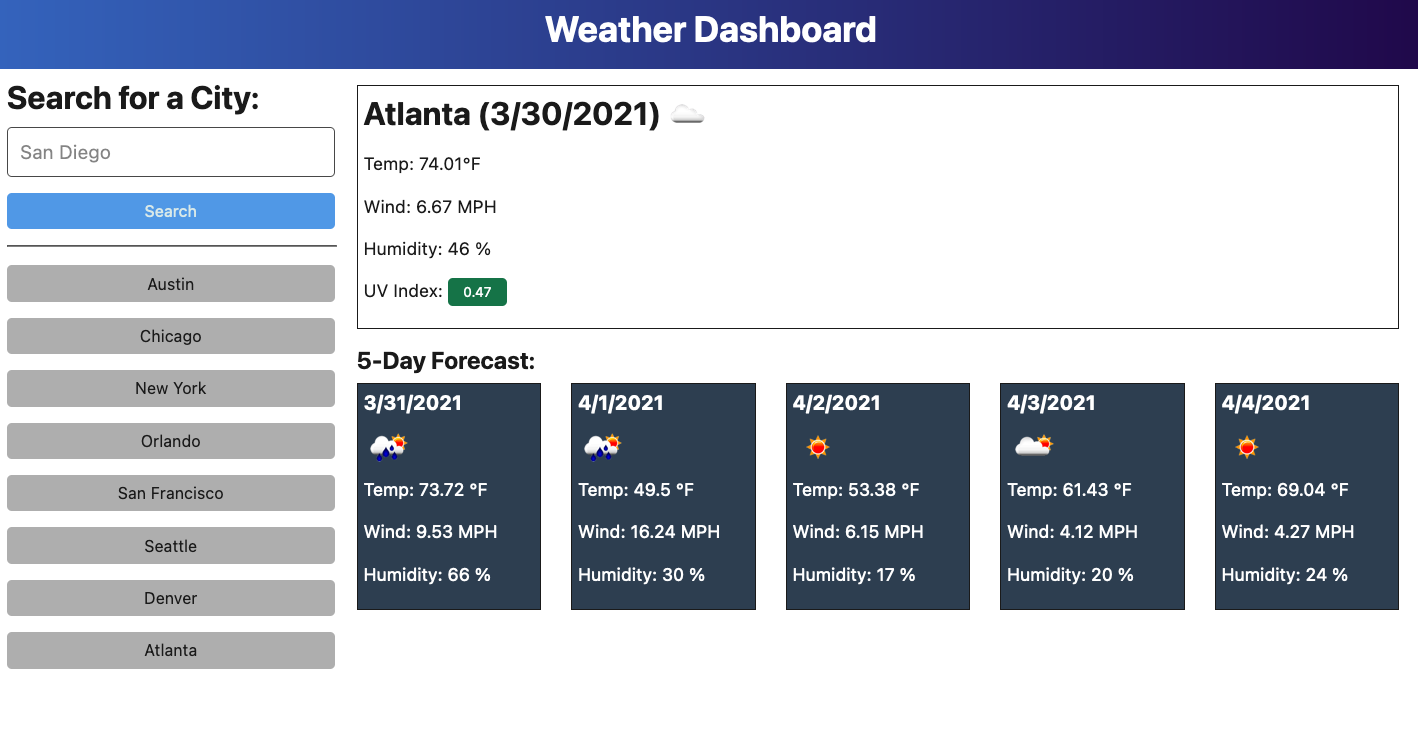
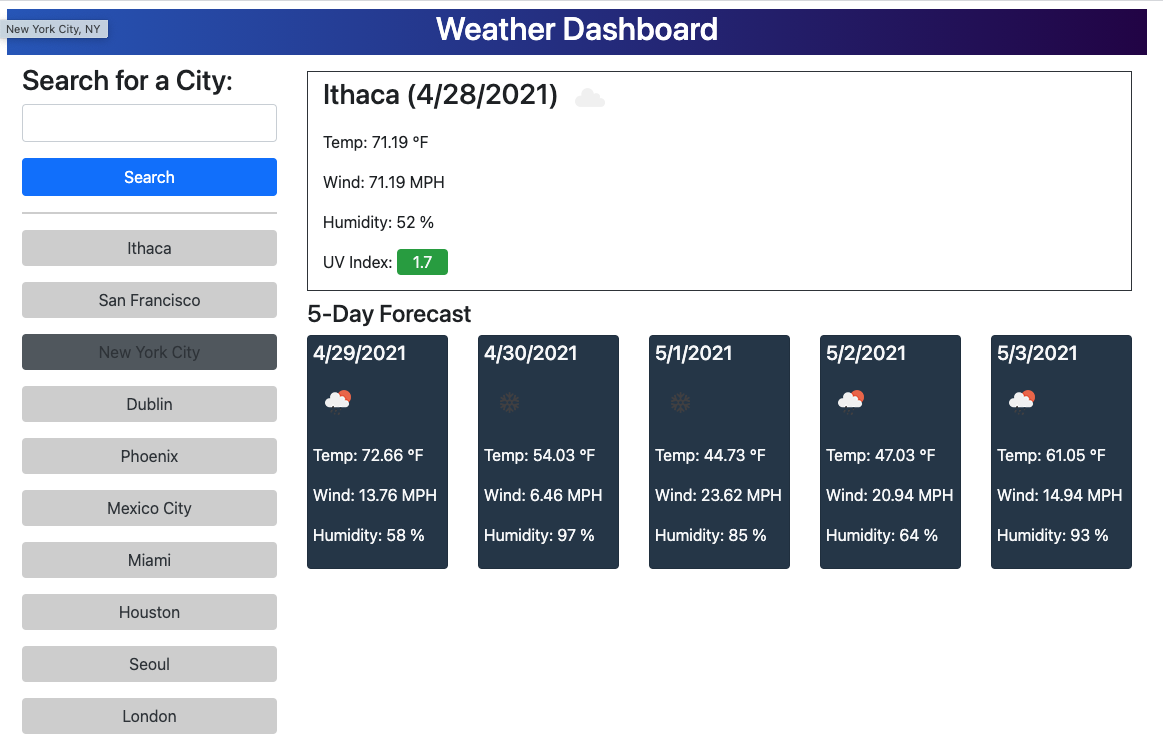
update readme; hide messages pane when weather info is displayed

diff --git a/assets/js/script.js b/assets/js/script.js
@@ -57,7 +57,6 @@ var updateSearchHistory = function(cityData, multipleMatches) {
 
 var weatherCitySearch = function(city) {
   weatherInfoEl.classList.add("hidden");
-  messagesEl.classList.add('hidden');
 
   var endpoint = 'https://api.openweathermap.org/geo/1.0/direct?q=' + city + '&limit=3&appid=' + OWM_KEY;
 
@@ -79,6 +78,7 @@ var weatherCitySearch = function(city) {
 
 var getWeatherForCity = function(cityData) {
   updateSearchHistory(cityData);
+  messagesEl.classList.add('hidden');
 
   var endpoint = 'https://api.openweathermap.org/data/2.5/onecall?lat=' + cityData.lat + '&lon=' + cityData.lon + '&exclude=minutely,hourly&units=imperial&appid=' + OWM_KEY;
 
@@ -127,11 +127,9 @@ var updateWeatherDashboard = function (weather) {
     forecastCardEls[i].innerHTML = cardBodyHtml;
   }
 
-
-  if (weatherInfoEl.classList.contains("hidden")) {
-    weatherInfoEl.classList.remove("hidden");
-  }
-  
+  // hide the messages div and show the weather info
+  messagesEl.classList.add('hidden');
+  weatherInfoEl.classList.remove('hidden');
 };
 
 var displayError = function (error) {

diff --git a/README.md b/README.md
@@ -2,17 +2,14 @@
 An app to fetch and display weather information from OpenWeather for multiple cities to aid travelers in trip planning.
 
 ## Features
-GIVEN a weather dashboard with form inputs
-- WHEN I search for a city<br>
-THEN I am presented with current and future conditions for that city and that city is added to the search history
-- WHEN I view current weather conditions for that city<br>
-THEN I am presented with the city name, the date, an icon representation of weather conditions, the temperature, the humidity, the wind speed, and the UV index
-- WHEN I view the UV index<br>
-THEN I am presented with a color that indicates whether the conditions are favorable, moderate, or severe
-- WHEN I view future weather conditions for that city<br>
-THEN I am presented with a 5-day forecast that displays the date, an icon representation of weather conditions, the temperature, the wind speed, and the humidity
-- WHEN I click on a city in the search history<br>
-THEN I am again presented with current and future conditions for that city
+- Provides a simple search form that accepts a city name
+- Searching for a city presents the user with current and future conditions for that city, if found
+- Searched cities are recorded, and the last 10 cities search are accessible via buttons below the search form
+- Selecting a city in the search history displays the current and future conditions for that city as of the current date
+- The dashboard is pre-populated with weather conditions for the most recently search city, when the app is loaded
+- Current weather conditions for a city are dispayed with the city name, current date, an icon representing the weather conditions, temperature, humidity, wind speed, and UV index
+- The UV index is styled with a color that indicates whether the conditions are favorable, moderate, or severe
+- Future weather conditions for the city are presented as a 5-day forecast that includes the date, an icon representing the weather conditions, temperature, wind speed, and humidity for each day
 
 ## Screenshot
 <img src="./assets/images/weather-dashboard.png" />
